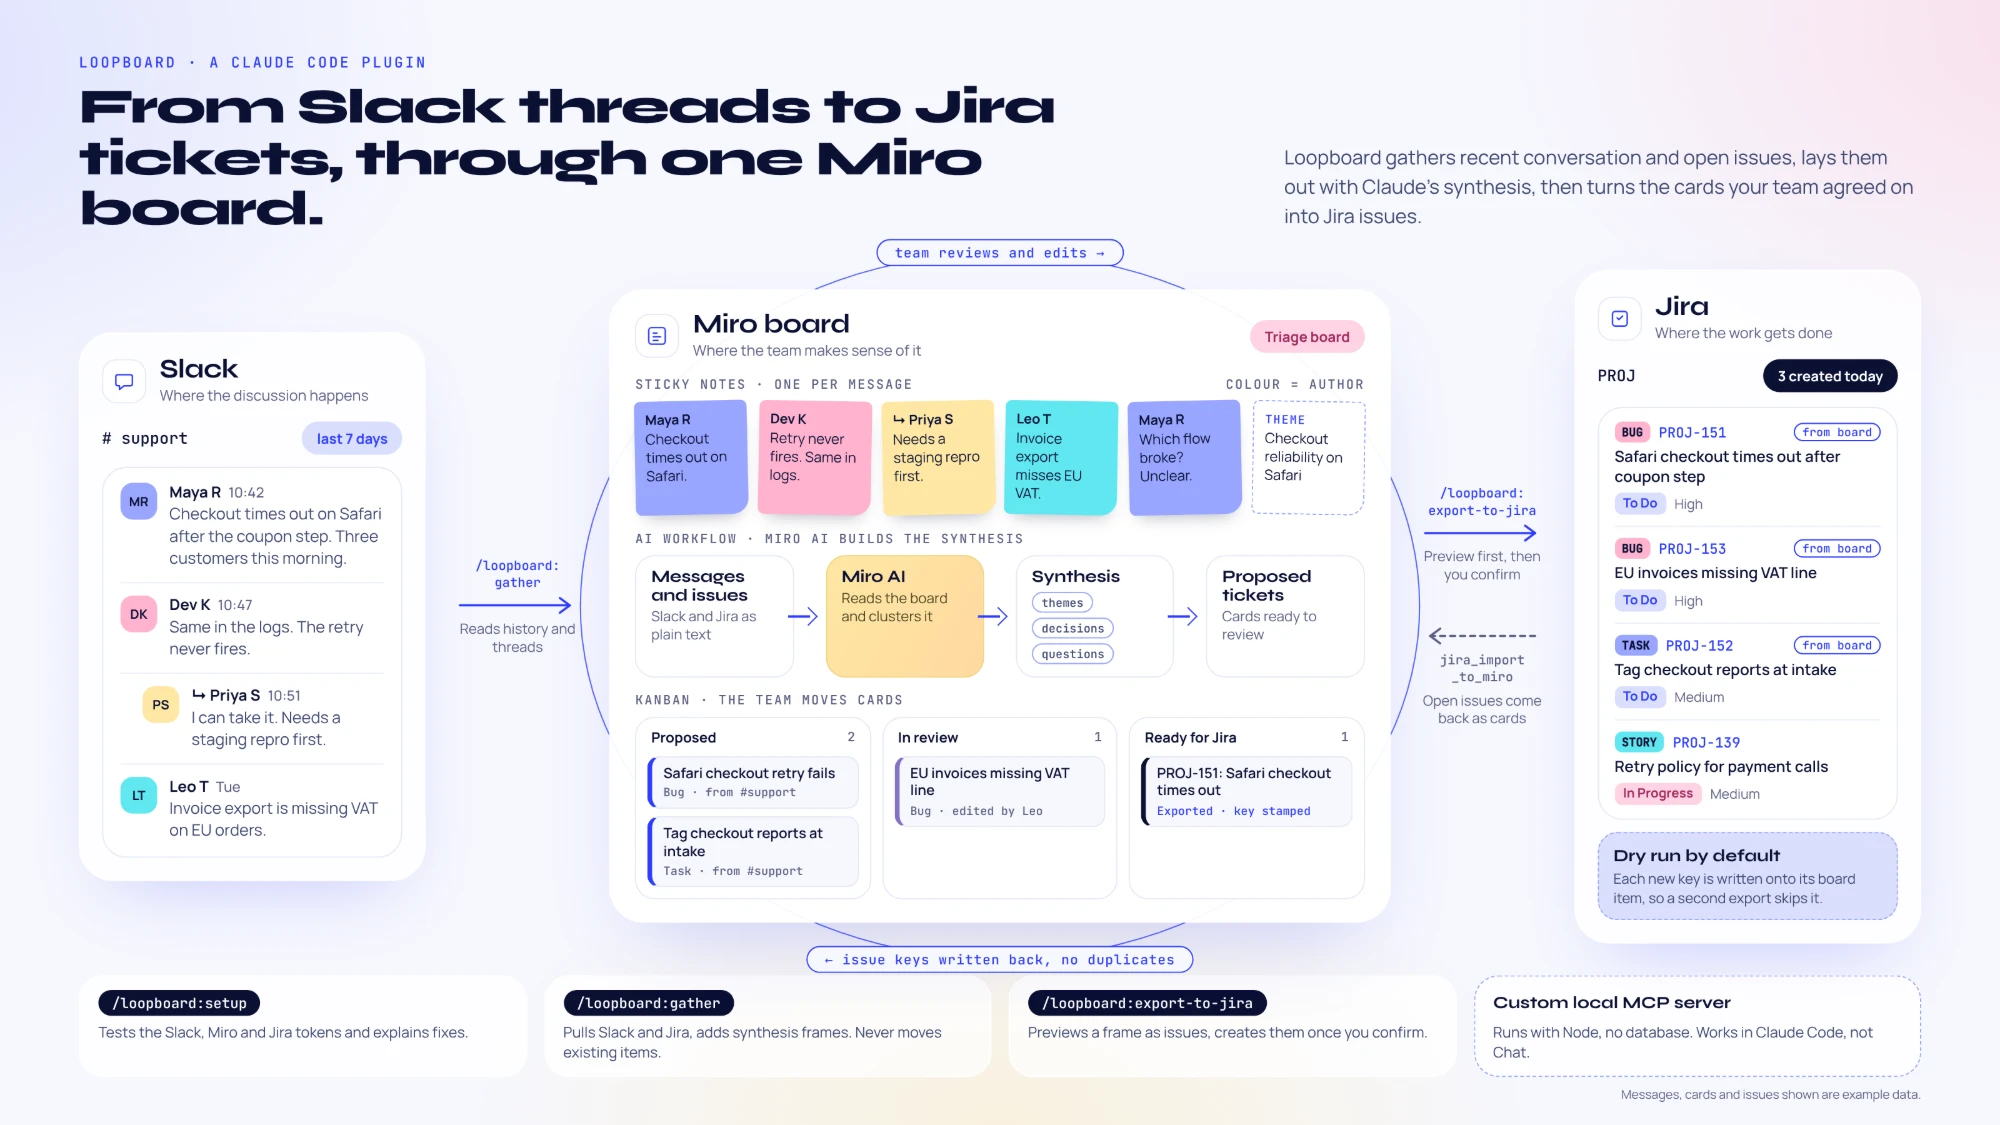
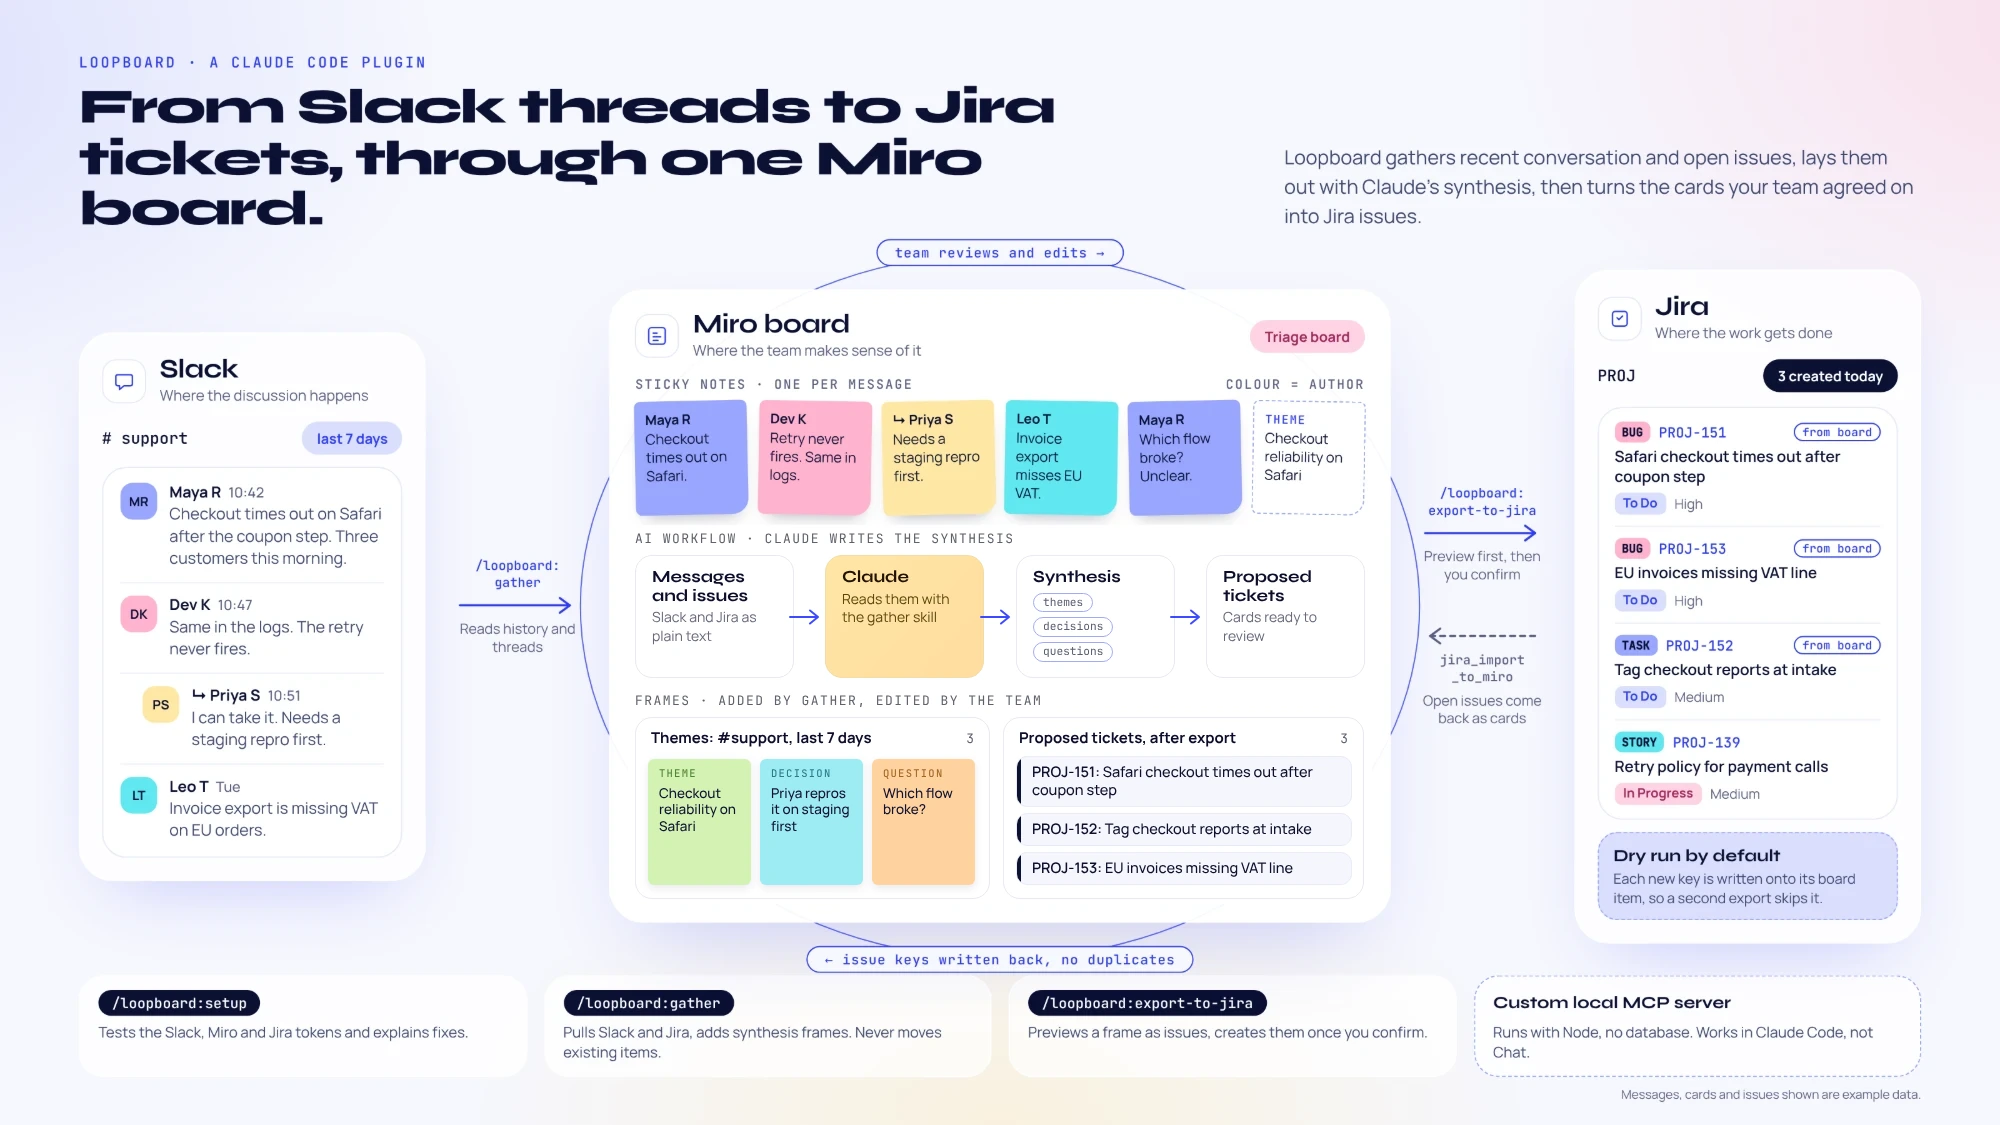
docs: correct the overview image
The image said Miro AI builds the synthesis and showed a kanban the
plugin never creates. Claude writes the synthesis through the gather
skill, and gather adds frames: a themes frame of theme, decision and
question stickies and a proposed tickets frame, whose cards carry
their Jira keys after export. The rest of the image is unchanged.

Claude-Session: https://claude.ai/code/session_01MomxP8qtBHJyW3vVgQVzAP

diff --git a/README.md b/README.md
@@ -6,7 +6,7 @@ A Claude Code plugin that closes the loop between conversation and work:
 2. **Board**: it lays them out on a Miro board, along with Claude's synthesis: themes, decisions, open questions and proposed tickets.
 3. **Export**: once the team has reviewed and edited the board, it turns the board's cards and stickies into Jira issues.
 
-![Loopboard overview, with example data: Slack messages from #support become stickies on a Miro board, the board gets a synthesis of themes, decisions and questions plus proposed ticket cards for the team to review, and /loopboard:export-to-jira previews the cards, creates Jira issues and writes each issue key back so a second export skips it.](assets/loopboard-overview.webp)
+![Loopboard overview, with example data: Slack messages from #support become stickies on a Miro board, Claude adds a synthesis frame of theme, decision and question stickies and a frame of proposed ticket cards for the team to review, and /loopboard:export-to-jira previews the cards, creates Jira issues and writes each issue key back so a second export skips it.](assets/loopboard-overview.webp)
 
 ## Problem
 Decisions and tickets raised in Slack and Jira threads often never reach a shared board or the backlog.
